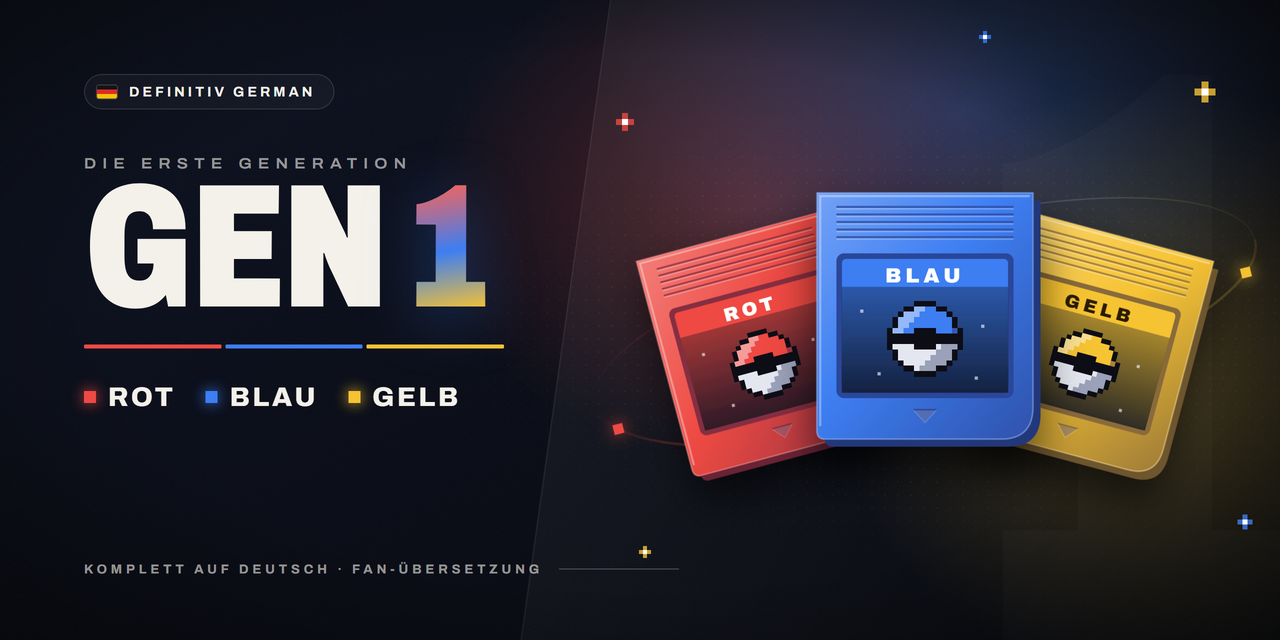
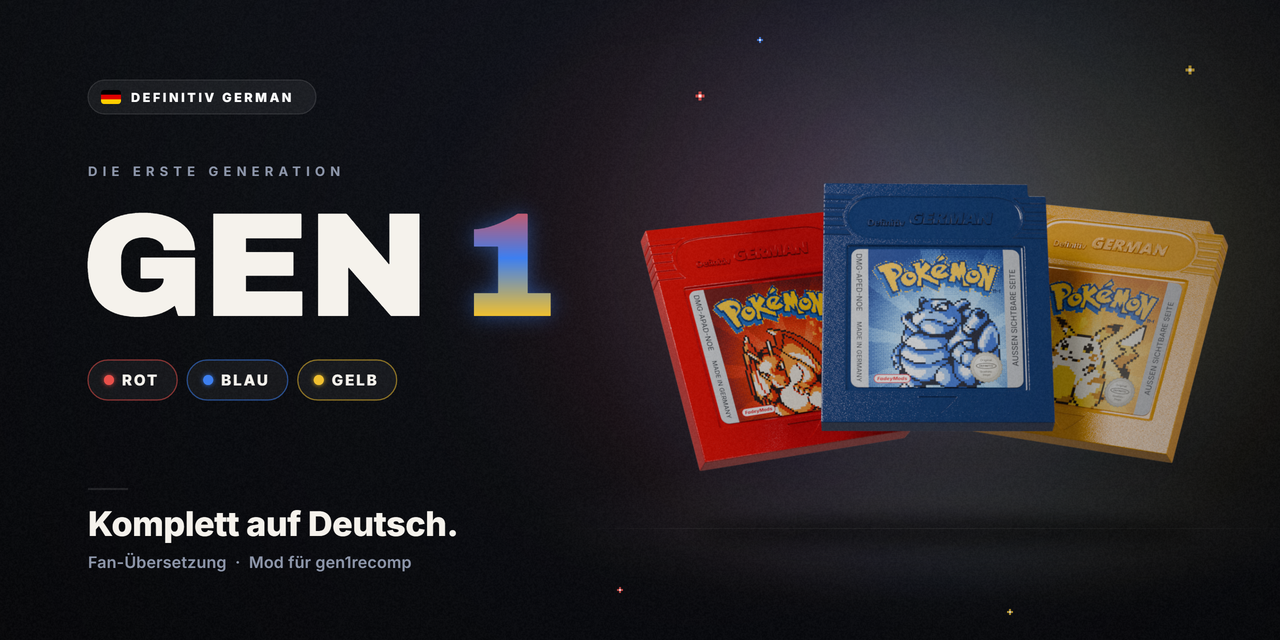
Definitiv German Gen 1-3: 1.0.5 listing (intro, new thumbnails) (#360)

diff --git a/mods/FadeyMods@definitiv-german-gen3/description.md b/mods/FadeyMods@definitiv-german-gen3/description.md
@@ -4,6 +4,7 @@ Komplett deutsche **Rubin-, Saphir-, Smaragd-, Feuerrote und Blattgrüne Edition
 - Deutsche Schrift (Umlaute, ß und Sonderzeichen)
 - Deutsche Grafiken (Titelbild, Statusseiten, Pokédex, Trainerpass, PokéNav, Wettbewerb, PC-Boxen, Schilder an Pokémon-Center, Laden und Arena, Teachy-TV, Abspann)
 - Menüs und Kästen wie im deutschen Original angeordnet
+- Kurzes Intro der Edition beim Spielstart (Rubin, Saphir, Smaragd, Feuerrot, Blattgrün), mit jeder Taste überspringbar und unter MODS → OPTIONEN.. abschaltbar
 - Zusätze von gen1recomp (Mod-Verwaltung, Optionen, Link-Meldungen) auf Deutsch
 - Online-Spiel (KONNEX-Klub online, Arenen, Turniere) nur mit abgeschaltetem Mod (Vorgabe von gen1recomp, siehe README)
 

diff --git a/mods/FadeyMods@definitiv-german-gen1/description.md b/mods/FadeyMods@definitiv-german-gen1/description.md
@@ -4,6 +4,7 @@ Komplett deutsche **Rote, Blaue und Gelbe Edition** - so, als wäre die englisch
 - Deutsche Schrift (Umlaute, ß und Sonderzeichen)
 - Deutsche Grafiken (Titelbild (ROTE / BLAUE / GELBE EDITION), Copyright-Zeile, Spielautomat, Pokédex-Einheiten, Gelb: Surf-Minigame, Druckerdiplom und Drucker)
 - Menüs und Kästen wie im deutschen Original angeordnet
+- Kurzes Intro der Edition beim Spielstart (Rot, Blau, Gelb), mit jeder Taste überspringbar und unter MODS → OPTIONEN.. abschaltbar
 - Zusätze von gen1recomp (Mod-Verwaltung, Optionen, Link-Meldungen) auf Deutsch
 - Online-Spiel (KONNEX-Klub online, Arenen, Turniere) nur mit abgeschaltetem Mod (Vorgabe von gen1recomp, siehe README)
 

diff --git a/mods/FadeyMods@definitiv-german-gen2/description.md b/mods/FadeyMods@definitiv-german-gen2/description.md
@@ -4,6 +4,7 @@ Komplett deutsche **Goldene, Silberne und Kristall-Edition** - so, als wäre die
 - Deutsche Schrift (Umlaute, ß und Sonderzeichen)
 - Deutsche Grafiken (Titelbild, Beutel, PokéCOM, Trainerpass, Pokédex, Diplom, Intro und Icognito-Szenen, Kristall: Geheimgabe)
 - Menüs und Kästen wie im deutschen Original angeordnet
+- Kurzes Intro der Edition beim Spielstart (Gold, Silber, Kristall), mit jeder Taste überspringbar und unter MODS → OPTIONEN.. abschaltbar
 - Zusätze von gen1recomp (Mod-Verwaltung, Optionen, Link-Meldungen) auf Deutsch
 - Online-Spiel (KONNEX-Klub online, Arenen, Turniere) nur mit abgeschaltetem Mod (Vorgabe von gen1recomp, siehe README)
 
